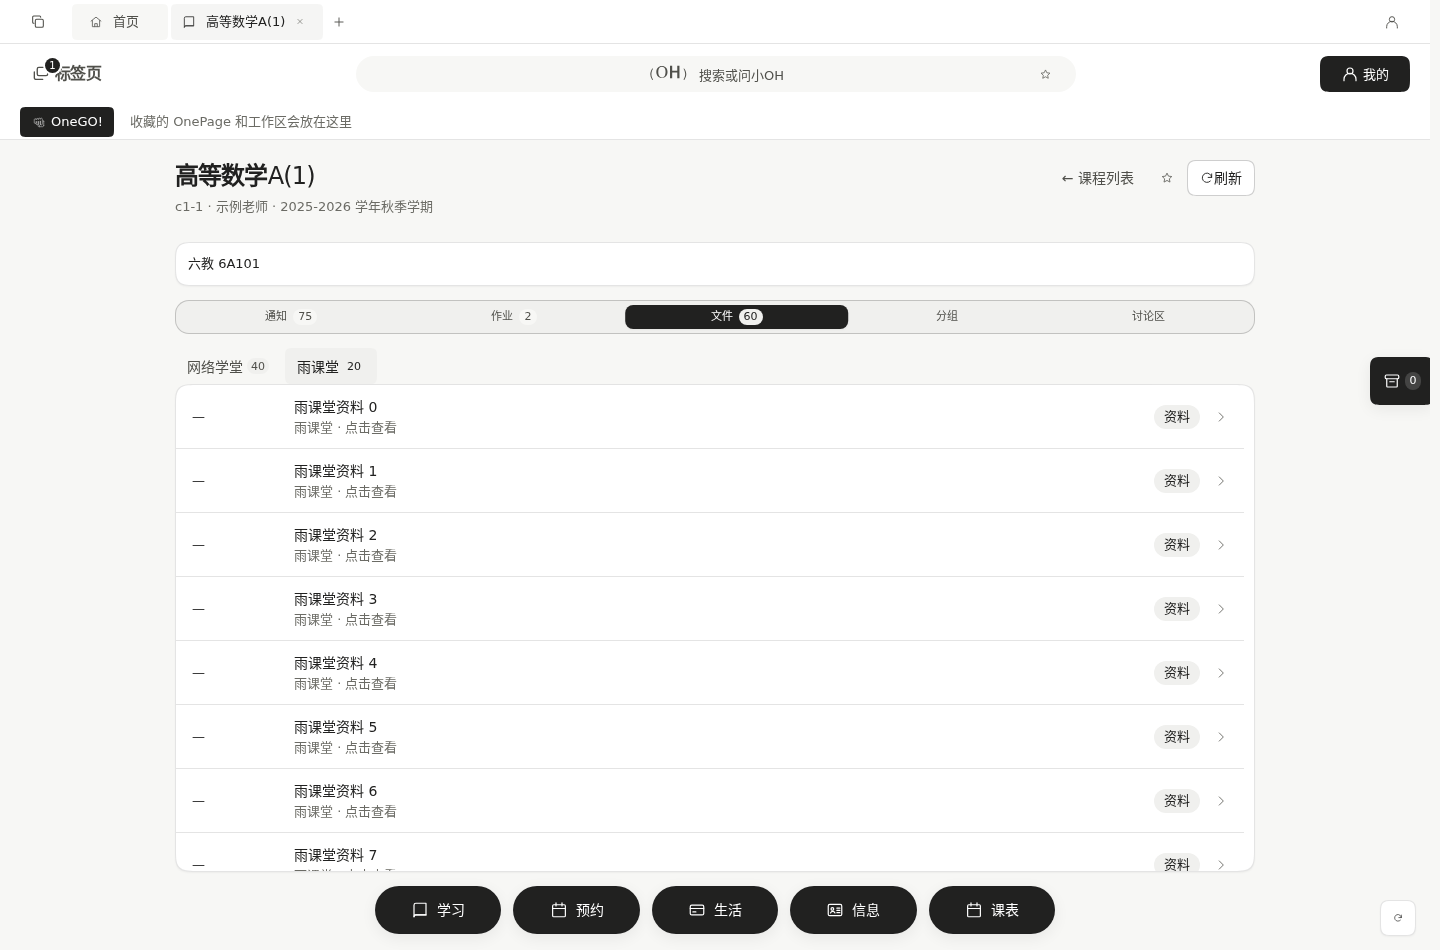
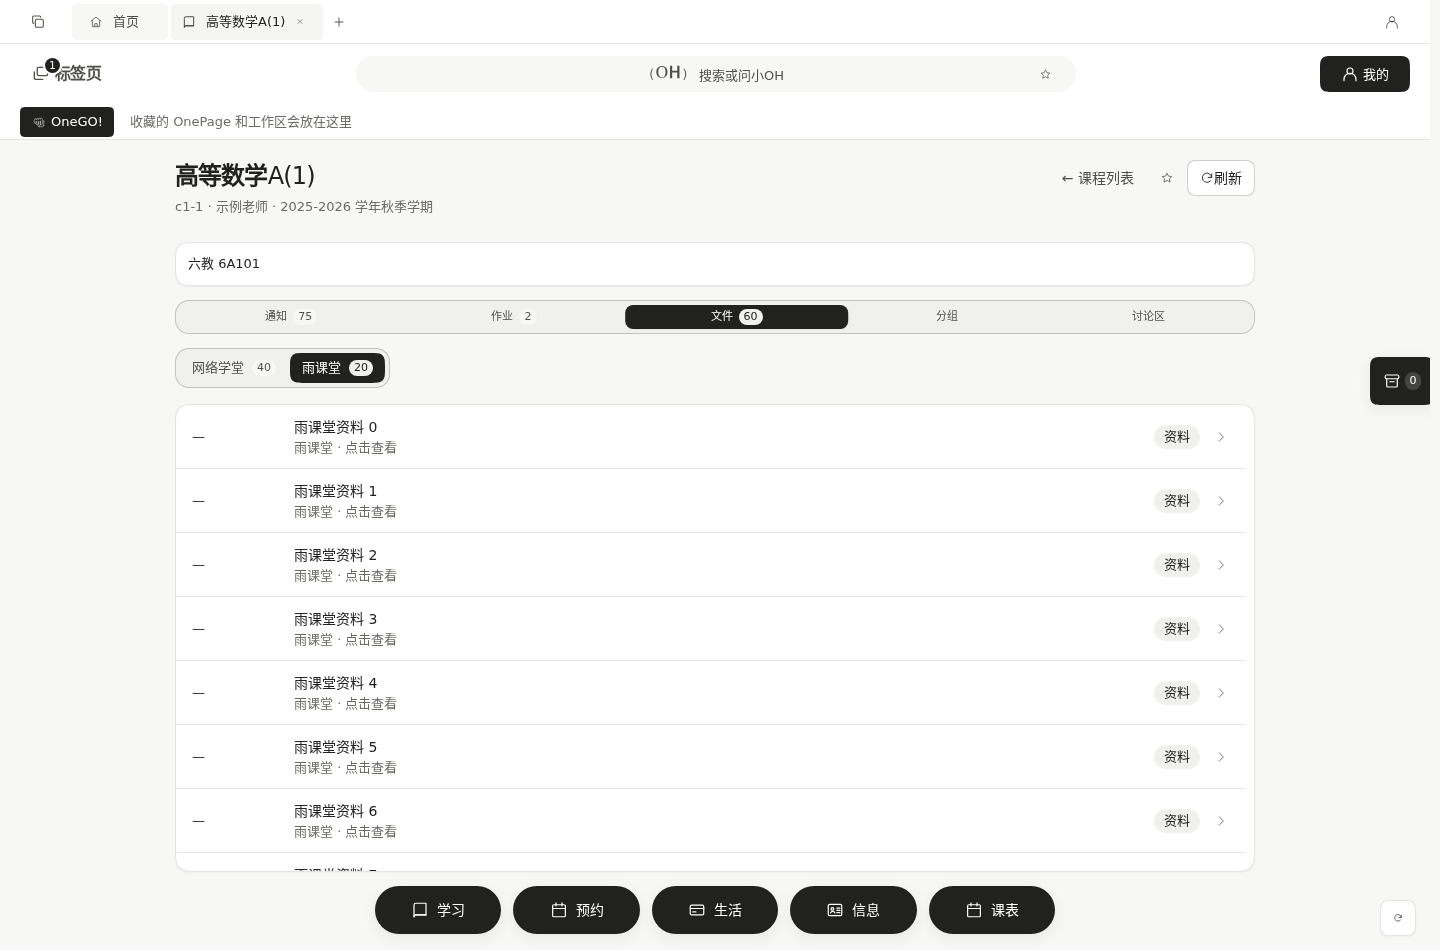
fix(learn): stop title animation replay, align course tabs, reveal rows before paint
- ListWindow 不再改写 page-head 的 animation（恢复 animation 会重播标题）
- 双来源子 tab 复用 .segmented 胶囊槽，与主 tab/作业筛选完全一致
- 滚动揭示在 paint 前同步标记首屏可见行，消除先静止再跳回左侧的抽搐
- 扩展课程回归：标题只播一次、切 tab 不重播、首帧 reveal、子 tab 样式逐属性一致

diff --git a/apps/desktop/src/lib/motion.ts b/apps/desktop/src/lib/motion.ts
@@ -161,6 +161,20 @@ export function installScrollReveal(): void {
     { rootMargin: "0px 0px -8% 0px", threshold: 0 },
   );
 
+  /** 首屏已经在视口内的项必须在第一帧之前拿到 data-reveal-in：
+   *  MutationObserver 在 paint 前跑，若等 100ms 防抖再标记，用户会先看到静止列表，
+   *  随后整列突然跳到 -14px 再滑回来（霖 2026-11-01 现场「抽搐一下」）。 */
+  let initialSlot = 0;
+  const markVisibleNow = (el: HTMLElement): boolean => {
+    const rect = el.getBoundingClientRect();
+    if (rect.width <= 0 || rect.height <= 0) return false;
+    if (rect.bottom <= 0 || rect.top >= window.innerHeight * 0.92) return false;
+    const grid = el.closest(".app-grid, .thos-grid");
+    el.style.animationDelay = `${Math.min(initialSlot++, 12) * (grid ? 9 : 30)}ms`;
+    el.dataset.revealIn = "1";
+    return true;
+  };
+
   const scan = () => {
     document.querySelectorAll<HTMLElement>(REVEAL_SELECTOR).forEach((el) => {
       if (el.dataset.reveal === "1") return;
@@ -170,20 +184,25 @@ export function installScrollReveal(): void {
         el.dataset.revealIn = "instant";
         return;
       }
+      // 首屏可见项同步标记（paint 前），IO 只负责后续滚动进入视口的项。
+      if (markVisibleNow(el)) return;
       io.observe(el);
     });
   };
   scan();
 
-  // 动态内容（翻页 / 筛选 / 新数据）也要纳入；100ms 防抖，避免频繁重排时反复全量查询
-  let timer = 0;
-  new MutationObserver(() => {
-    if (timer) return;
-    timer = window.setTimeout(() => {
-      timer = 0;
+  // 动态内容（翻页 / 筛选 / 新数据）也要纳入；MutationObserver 回调本身就在 paint 前，
+  // 直接 scan 才能让新行从第一帧就处于入场首帧，不再「先静止出现再跳回左侧」。
+  let scanning = false;
+  const scheduleScan = (): void => {
+    if (scanning) return;
+    scanning = true;
+    queueMicrotask(() => {
+      scanning = false;
       scan();
-    }, 100);
-  }).observe(document.body, { childList: true, subtree: true });
+    });
+  };
+  new MutationObserver(scheduleScan).observe(document.body, { childList: true, subtree: true });
 }
 
 /**

diff --git a/apps/desktop/src/pages/learn/CourseDetailPage.tsx b/apps/desktop/src/pages/learn/CourseDetailPage.tsx
@@ -239,12 +239,12 @@ export function CourseDetailPage() {
           <>
             {notices.length > 0 && yktNotices.length > 0 ? (
               <Tabs
-                variant="pill"
+                className="segmented course-source-tabs"
                 value={effectiveNoticeSource}
                 onChange={(value) => setNoticeSource(value as Source)}
                 items={[
-                  { id: "learn", label: i18n("enum.label.aa39cac2b409"), badge: notices.length },
-                  { id: "ykt", label: i18n("components.attachactionssheet.38b9eabcae1b"), badge: yktNotices.length },
+                  { id: "learn", label: <>{i18n("enum.label.aa39cac2b409")}<span className="tab-count">{notices.length}</span></> },
+                  { id: "ykt", label: <>{i18n("components.attachactionssheet.38b9eabcae1b")}<span className="tab-count">{yktNotices.length}</span></> },
                 ]}
               />
             ) : null}
@@ -322,12 +322,12 @@ export function CourseDetailPage() {
           <>
             {files.length > 0 && yktFiles.length > 0 ? (
               <Tabs
-                variant="pill"
+                className="segmented course-source-tabs"
                 value={effectiveFileSource}
                 onChange={(value) => setFileSource(value as Source)}
                 items={[
-                  { id: "learn", label: i18n("enum.label.aa39cac2b409"), badge: files.length },
-                  { id: "ykt", label: i18n("components.attachactionssheet.38b9eabcae1b"), badge: yktFiles.length },
+                  { id: "learn", label: <>{i18n("enum.label.aa39cac2b409")}<span className="tab-count">{files.length}</span></> },
+                  { id: "ykt", label: <>{i18n("components.attachactionssheet.38b9eabcae1b")}<span className="tab-count">{yktFiles.length}</span></> },
                 ]}
               />
             ) : null}

diff --git a/apps/desktop/src/components/Layout.tsx b/apps/desktop/src/components/Layout.tsx
@@ -943,10 +943,8 @@ export function ListWindow({
     const host = hostRef.current;
     if (!host) return;
     const update = (): void => {
-      // 页头入场是 transform；测量瞬间临时停掉，避免把 -5px 位移算进可用高度。
-      const header = host.closest<HTMLElement>(".page-anim")?.querySelector<HTMLElement>(".page-head-host");
-      const headerAnimation = header?.style.animation;
-      if (header) header.style.animation = "none";
+      // 页头入场是 header 自己的 transform，不影响列表宿主的布局位置；不要为了测量
+      // 去改写 header.style.animation——恢复 animation 会让标题入场从头重播。
       const rect = host.getBoundingClientRect();
       // 页面可能带着上一次滚动位置挂载（课程卡在页面下方 → 详情页首帧不在顶部）。
       // 直接用 viewport top 会把「已经滚掉的距离」当成可用高度，列表于是撑到内容全高。
@@ -960,7 +958,6 @@ export function ListWindow({
       const scrollTop = scroller?.scrollTop ?? (window.scrollY || document.documentElement.scrollTop || 0);
       const top = rect.top - (scRect?.top ?? 0) + scrollTop;
       const viewportH = scroller?.clientHeight ?? window.innerHeight;
-      if (header) header.style.animation = headerAnimation ?? "";
       const content = host.closest<HTMLElement>(".explorer-content");
       const pad = content ? Number.parseFloat(getComputedStyle(content).paddingBottom) || 0 : 0;
       // 底栏是浮在内容之上的固定层：不能只减 content padding，否则列表最后几行

diff --git a/packages/gui/src/recipes/learn.css b/packages/gui/src/recipes/learn.css
@@ -127,6 +127,30 @@ html:root[data-og-skin="glass"] .learn-assignment-list {
 /* 整卡 hover：状态层铺满卡片（含底部标签行），不再只跟着上半部的打开按钮。
    用独立 ::after 叠色，卡面填充/模糊/圆角保持不变；内容抬到状态层之上，
    底部标签按钮自己的 hover 仍照常生效。 */
+/* 课程详情双来源子 tab：沿用主 tab 的 .segmented 胶囊槽，不再用 OneGUI 默认下划线。
+   Tabs 只提供 tablist/键盘语义，视觉由 .segmented 与下面几条对齐。 */
+html:root .course-source-tabs {
+  display: inline-flex;
+  gap: var(--og-geo-xs);
+  width: max-content;
+  max-width: 100%;
+  overflow: visible;
+  vertical-align: middle;
+  margin-bottom: var(--og-space-4);
+}
+html:root .course-source-tabs .og-tabs-indicator { display: none; }
+html:root .course-source-tabs .og-tab {
+  height: var(--og-ctl-h-sm);
+  padding: 0 var(--og-space-3);
+  border-radius: var(--og-radius-full);
+  font-size: var(--og-text-label);
+}
+html:root .course-source-tabs .og-tab > span:first-child {
+  display: inline-flex;
+  align-items: center;
+  gap: var(--og-space-2);
+}
+
 /* 待办筛选：OneGUI Select 在旧 .hw-filter 行里的尺寸（壳 30px，避免旧 34px 特例）。
    Trace 的胶囊开关同理：壳去掉自己的面/线，只留文字与箭头。 */
 html:root .tasks-body .hw-filter-select .og-input {

diff --git a/docs/reviews/2026-11-01-hover-icons-course-card.md b/docs/reviews/2026-11-01-hover-icons-course-card.md
@@ -34,7 +34,7 @@
 
 ## 验证
 
-- `course-source-tabs-browser-test`：10 项（子 tab、默认网络、雨课堂/文件固定视口、底部快捷栏不遮挡）。
+- `course-source-tabs-browser-test`：14 项（子 tab、默认网络、标题只播一次、行首帧标记、子 tab 与主 tab 样式一致、雨课堂/文件固定视口）。
 - `card-two-col-browser-test`：7 项（等宽、同高、内部滚动、窄屏堆叠、无横向溢出）。
 - `learn-layout-browser-test`：219 项（含 hover 角形、无双层、整卡覆盖）。
 - `list-window-layout-test`、`assignments-layout-test`、`material-ink-stability`、`select-control`、`glass-optics` 继续通过。
@@ -52,3 +52,13 @@
 - 双来源 tab 仅当两侧都有内容时出现；没有任何一侧时沿用原空态。
 - 校园卡两栏阈值为 1024px；更窄窗口维持堆叠。
 - 列表高度仍依赖运行时布局测量；本轮补了滚动偏移与延迟重测，但极端自定义主题/字号下的观感仍以真机为准。
+
+## 6. 课程详情入场动画与双来源 tab 样式（2026-11-01 下午补）
+
+**标题重复入场**：`ListWindow` 测量时为避开页头入场 transform，临时把 `header.style.animation` 设为 `none` 再恢复；恢复 `animation` 会让 CSS 动画从头重播。每次测量（首挂载 + rAF + 120/360ms + ResizeObserver）都会重播，正好 3 次；切 tab 重测又 1~n 次。页头 transform 不影响列表宿主的布局位置，已删除这段写入/恢复，标题只在进入页面时播一次。
+
+**列表项抽搐**：滚动揭示由 `MutationObserver` 以 100ms 防抖扫描，新行先以静止状态绘制出来，100ms 后才打 `data-reveal-in` 并从左侧 -14px 开始播 `m-reveal-in`，观感就是“先出现、再消失、再从左边进来”。现在 MutationObserver 用 microtask 合并、在 paint 前同步标记首屏可见行；IO 只负责后续滚入视口的行。
+
+**双来源 tab 样式**：子 tab 不再用 OneGUI 默认下划线/胶囊，复用主 tab 的 `.segmented` 胶囊槽（`Tabs` 只提供 tablist/键盘语义 + `className="segmented course-source-tabs"`）；主动项深色胶囊、计数样式与主 tab 完全一致。
+
+回归：`course-source-tabs-browser-test` 增至 14 项（标题只播一次/切 tab 不重播、首帧 reveal 标记、子 tab 与主 tab 样式逐属性相等）；`motion-test` 151 项。
